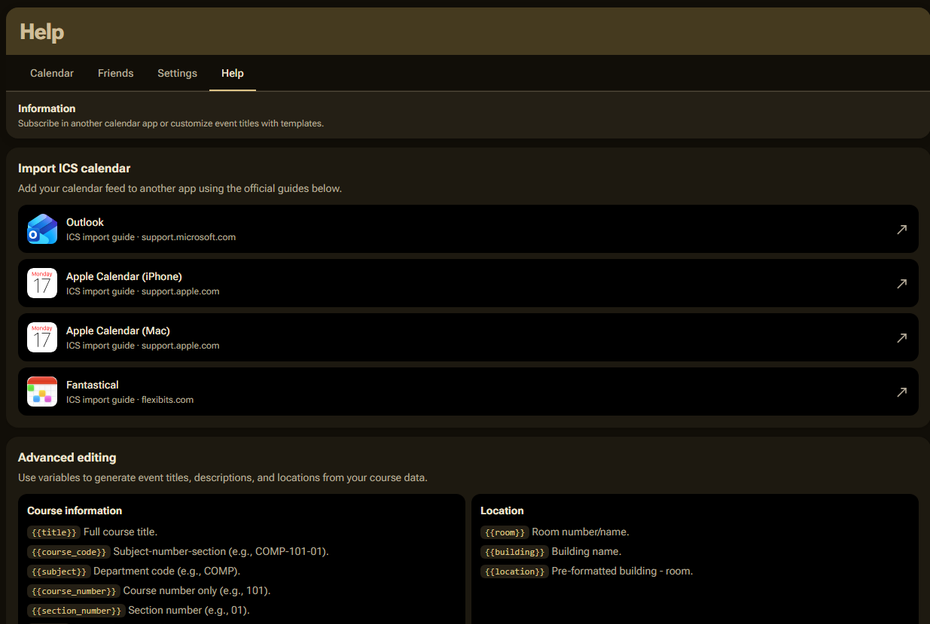
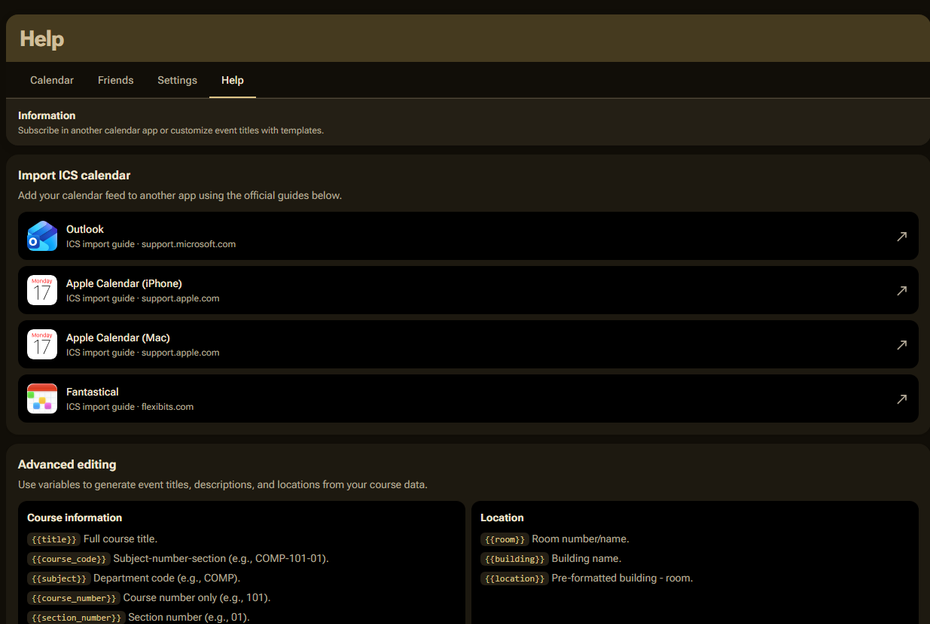
fix top padding

Changed region(s): [[0.0, 0.2436, 0.9978, 1.0], [0.0, 0.0, 1.0, 0.2131]]

diff --git a/src/routes/+page.svelte b/src/routes/+page.svelte
@@ -70,9 +70,9 @@
 <div class="flex justify-center items-center mt-8 px-4 sm:px-6">
     <div class="rounded-3xl w-full max-w-6xl px-4 sm:px-8 md:px-16 py-8 sm:py-12">
         <div class="flex flex-col sm:flex-row justify-center items-end gap-6 md:gap-8">
-            <img src="/settings.png" alt="Settings page" class="outline outline-tertiary w-full max-w-[420px] sm:w-[clamp(220px,24vw,420px)] lg:w-[clamp(240px,26vw,460px)] lg:max-w-[460px] h-auto aspect-16/10 object-cover rounded-xl shadow-md transition-transform duration-200 ease-in-out sm:transform sm:rotate-2 sm:translate-y-[8px] sm:hover:rotate-1 sm:hover:translate-y-[2px] hover:scale-[1.03] hover:shadow-xl order-2 sm:order-0 mx-auto" />
-            <img src="/calendar.png" alt="Calendar page" class="outline outline-primary w-full max-w-[640px] sm:w-[clamp(300px,36vw,640px)] lg:w-[clamp(360px,40vw,720px)] lg:max-w-[720px] h-auto aspect-16/10 object-cover rounded-xl shadow-lg transition-transform duration-200 ease-in-out sm:transform sm:-translate-y-[8px] z-10 sm:hover:-translate-y-[6px] hover:scale-[1.03] hover:shadow-xl order-1 sm:order-1 mx-auto" />
-            <img src="/help.png" alt="Help page" class="outline outline-tertiary w-full max-w-[420px] sm:w-[clamp(220px,24vw,420px)] lg:w-[clamp(240px,26vw,460px)] lg:max-w-[460px] h-auto aspect-16/10 object-cover rounded-xl shadow-md transition-transform duration-200 ease-in-out sm:transform sm:-rotate-2 sm:translate-y-[8px] sm:hover:-rotate-1 sm:hover:translate-y-[2px] hover:scale-[1.03] hover:shadow-xl order-2 sm:order-2 mx-auto" />
+            <img src="/settings.png" alt="Settings page" class="outline outline-tertiary w-full max-w-[420px] sm:w-[clamp(220px,24vw,420px)] lg:w-[clamp(240px,26vw,460px)] lg:max-w-[460px] h-auto aspect-16/10 object-cover object-top rounded-xl shadow-md transition-transform duration-200 ease-in-out sm:transform sm:rotate-2 sm:translate-y-[8px] sm:hover:rotate-1 sm:hover:translate-y-[2px] hover:scale-[1.03] hover:shadow-xl order-2 sm:order-0 mx-auto" />
+            <img src="/calendar.png" alt="Calendar page" class="outline outline-primary w-full max-w-[640px] sm:w-[clamp(300px,36vw,640px)] lg:w-[clamp(360px,40vw,720px)] lg:max-w-[720px] h-auto aspect-16/10 object-cover object-top rounded-xl shadow-lg transition-transform duration-200 ease-in-out sm:transform sm:-translate-y-[8px] z-10 sm:hover:-translate-y-[6px] hover:scale-[1.03] hover:shadow-xl order-1 sm:order-1 mx-auto" />
+            <img src="/help.png" alt="Help page" class="outline outline-tertiary w-full max-w-[420px] sm:w-[clamp(220px,24vw,420px)] lg:w-[clamp(240px,26vw,460px)] lg:max-w-[460px] h-auto aspect-16/10 object-cover object-top rounded-xl shadow-md transition-transform duration-200 ease-in-out sm:transform sm:-rotate-2 sm:translate-y-[8px] sm:hover:-rotate-1 sm:hover:translate-y-[2px] hover:scale-[1.03] hover:shadow-xl order-2 sm:order-2 mx-auto" />
         </div>
     </div>
 </div>
